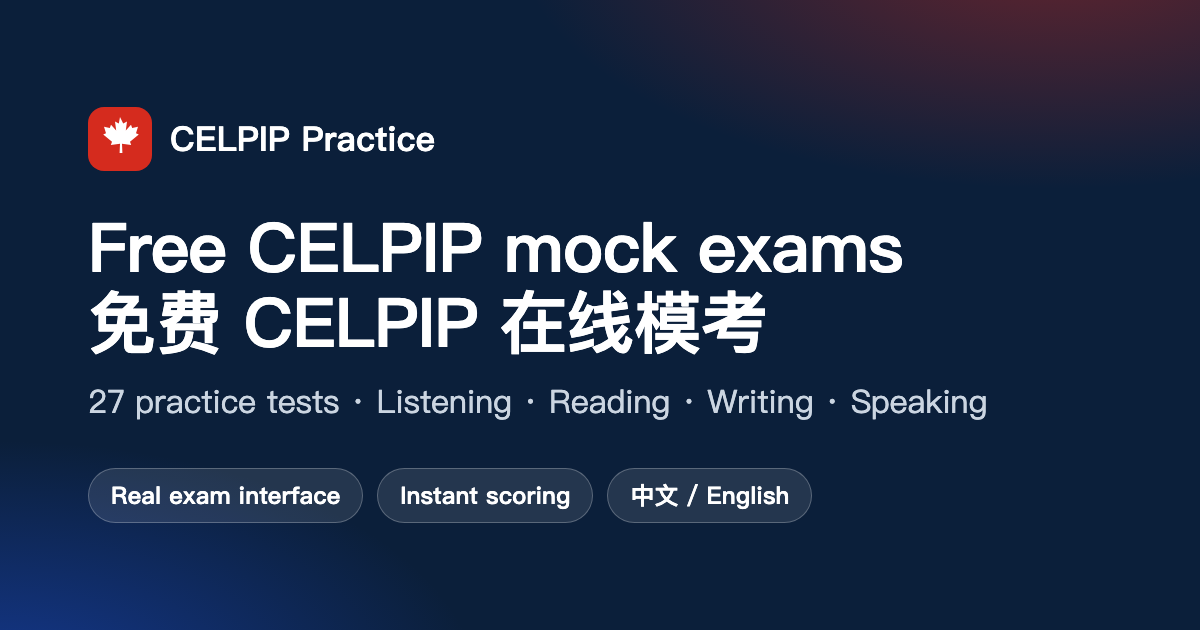
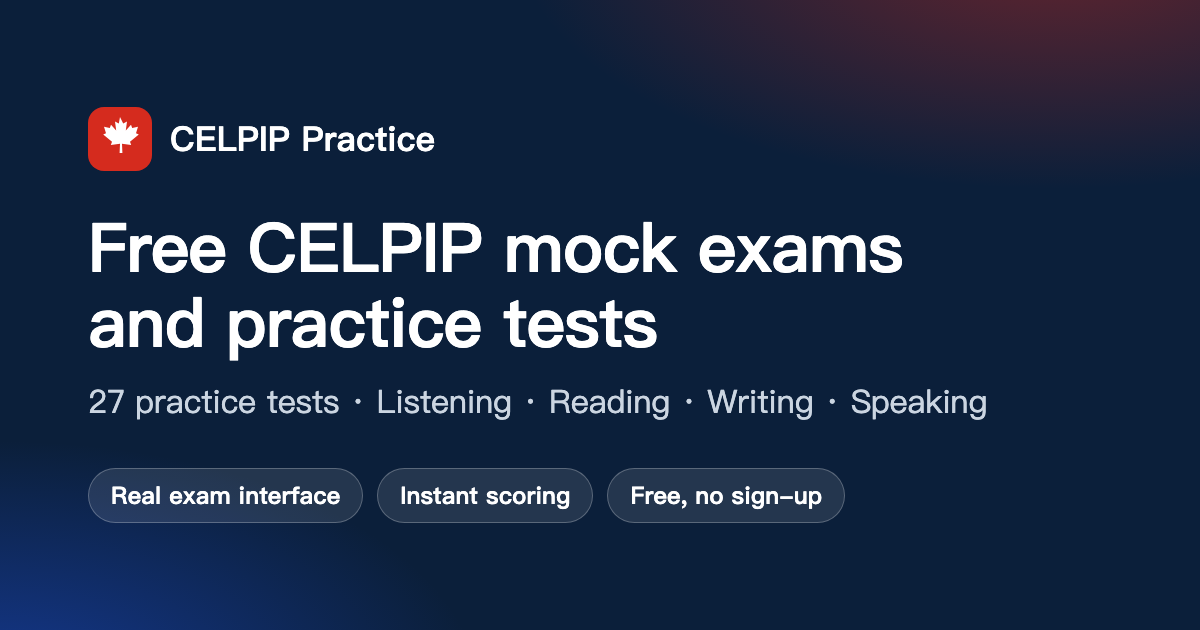
Per-language social share images

Changed region(s): [[0.0617, 0.4524, 0.6475, 0.573], [0.5242, 0.7238, 0.7092, 0.8444]]

diff --git a/lib/site.ts b/lib/site.ts
@@ -37,8 +37,8 @@ export function pageMeta(lang: Lang, path: string, title: string, description: s
       siteName: t("meta.siteName"),
       locale: OG_LOCALE[lang],
       alternateLocale: LANGS.filter((l) => l !== lang).map((l) => OG_LOCALE[l]),
-      images: [{ url: absUrl("/og.png"), width: 1200, height: 630, alt: t("meta.siteName") }],
+      images: [{ url: absUrl(`/og-${lang}.png`), width: 1200, height: 630, alt: t("meta.siteName") }],
     },
-    twitter: { card: "summary_large_image", title, description, images: [absUrl("/og.png")] },
+    twitter: { card: "summary_large_image", title, description, images: [absUrl(`/og-${lang}.png`)] },
   };
 }
